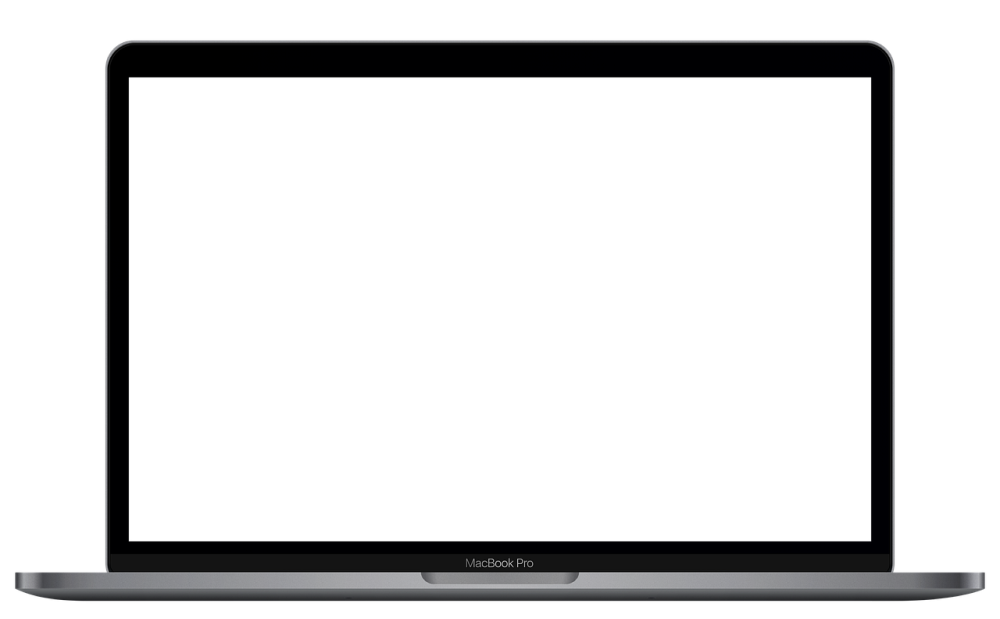
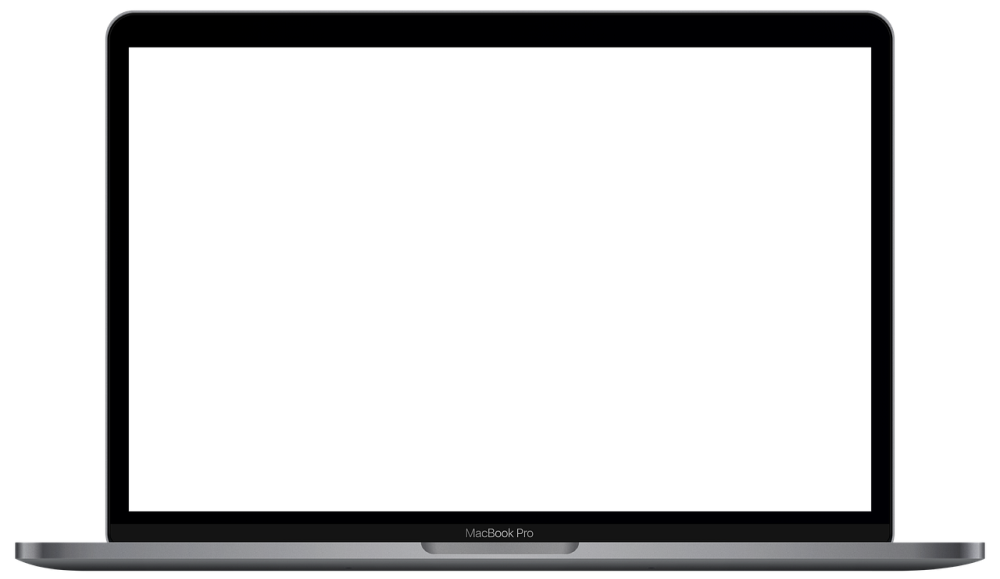
Added page links

Changed region(s): [[0.0, 0.8705, 0.992, 0.9948], [0.093, 0.0, 0.899, 0.1244]]

diff --git a/modulo4/desafios/redes-sociais/index.html b/modulo4/desafios/redes-sociais/index.html
@@ -7,13 +7,28 @@
     <link rel="shortcut icon" href="favicon.ico" type="image/x-icon">
     <link rel="stylesheet" href="./css/style.css">
     <title>Redes Sociais</title>
+
+    <style>
+        * {
+            color: #DDDDDD;
+        }
+    </style>
 </head>
 <body>
     <main>
         <section id="computer">
-            <iframe src="home.html" frameborder="0" name="screen" id="screen"></iframe>
+            <iframe src="home.html" frameborder="0" name="screen" id="screen">
+                <p>Sorry but your browser is not supported</p>
+            </iframe>
         </section>
-        <section id="redes-sociais"></section>
+        
+        <section id="social-media">
+            <a href="home.html" target="screen">home <img src="images/home.svg" alt="Home icon"></a>
+            <a href="#" target="screen">email<img src="images/mail.svg" alt="Mail icon"></a>
+            <a href="#" target="screen">github<img src="images/github.svg" alt="Github icon"></a>
+            <a href="#" target="screen">linkedin<img src="images/linkedin.svg" alt="Linkedin icon"></a>
+            <a href="#" target="screen">instagram<img src="images/instagram.svg" alt="Instagram icon"></a>
+        </section>
     </main>
 </body>
 </html>

diff --git a/modulo4/desafios/redes-sociais/css/style.css b/modulo4/desafios/redes-sociais/css/style.css
@@ -9,7 +9,7 @@
 }
 
 html, body {
-    width: 100vw;
+    width: 100%;
     height: 100vh;
     background-color: #121212;
 }
@@ -23,24 +23,62 @@ main {
     display: flex;
     align-items: center;
     justify-content: center;
+    flex-direction: column;
 }
+
+
 
 
 #computer {
     width: 1000px;
     height: 619px;
-    
+
     background-image: url(../images/frame-macbook.png);
     background-repeat: no-repeat;
-
-    position: absolute;
 }
 
 
-#screen {
+#computer > #screen {
     width: 742px;
     height:466px;
+
     position: relative;
-    top: 75px;
+    top: 47px;
     left: 129px;
+}
+
+
+
+
+#social-media {
+    display: flex;
+    gap: 32px;
+}
+
+
+#social-media > a {
+    text-decoration: none;
+    color: rgba(255, 255, 255, 0.7);
+    font-size: 16px;
+    
+    display: flex;
+    align-items: center;
+    gap: 5px;
+
+    transition-duration: 0.3s;
+}
+
+#social-media a:hover {
+    color: #FFF;
+}
+
+
+#social-media a img {
+    opacity: 0;
+
+    transition-duration: 0.3s;
+}
+ 
+#social-media a:hover img{
+    opacity: 1;
 }
